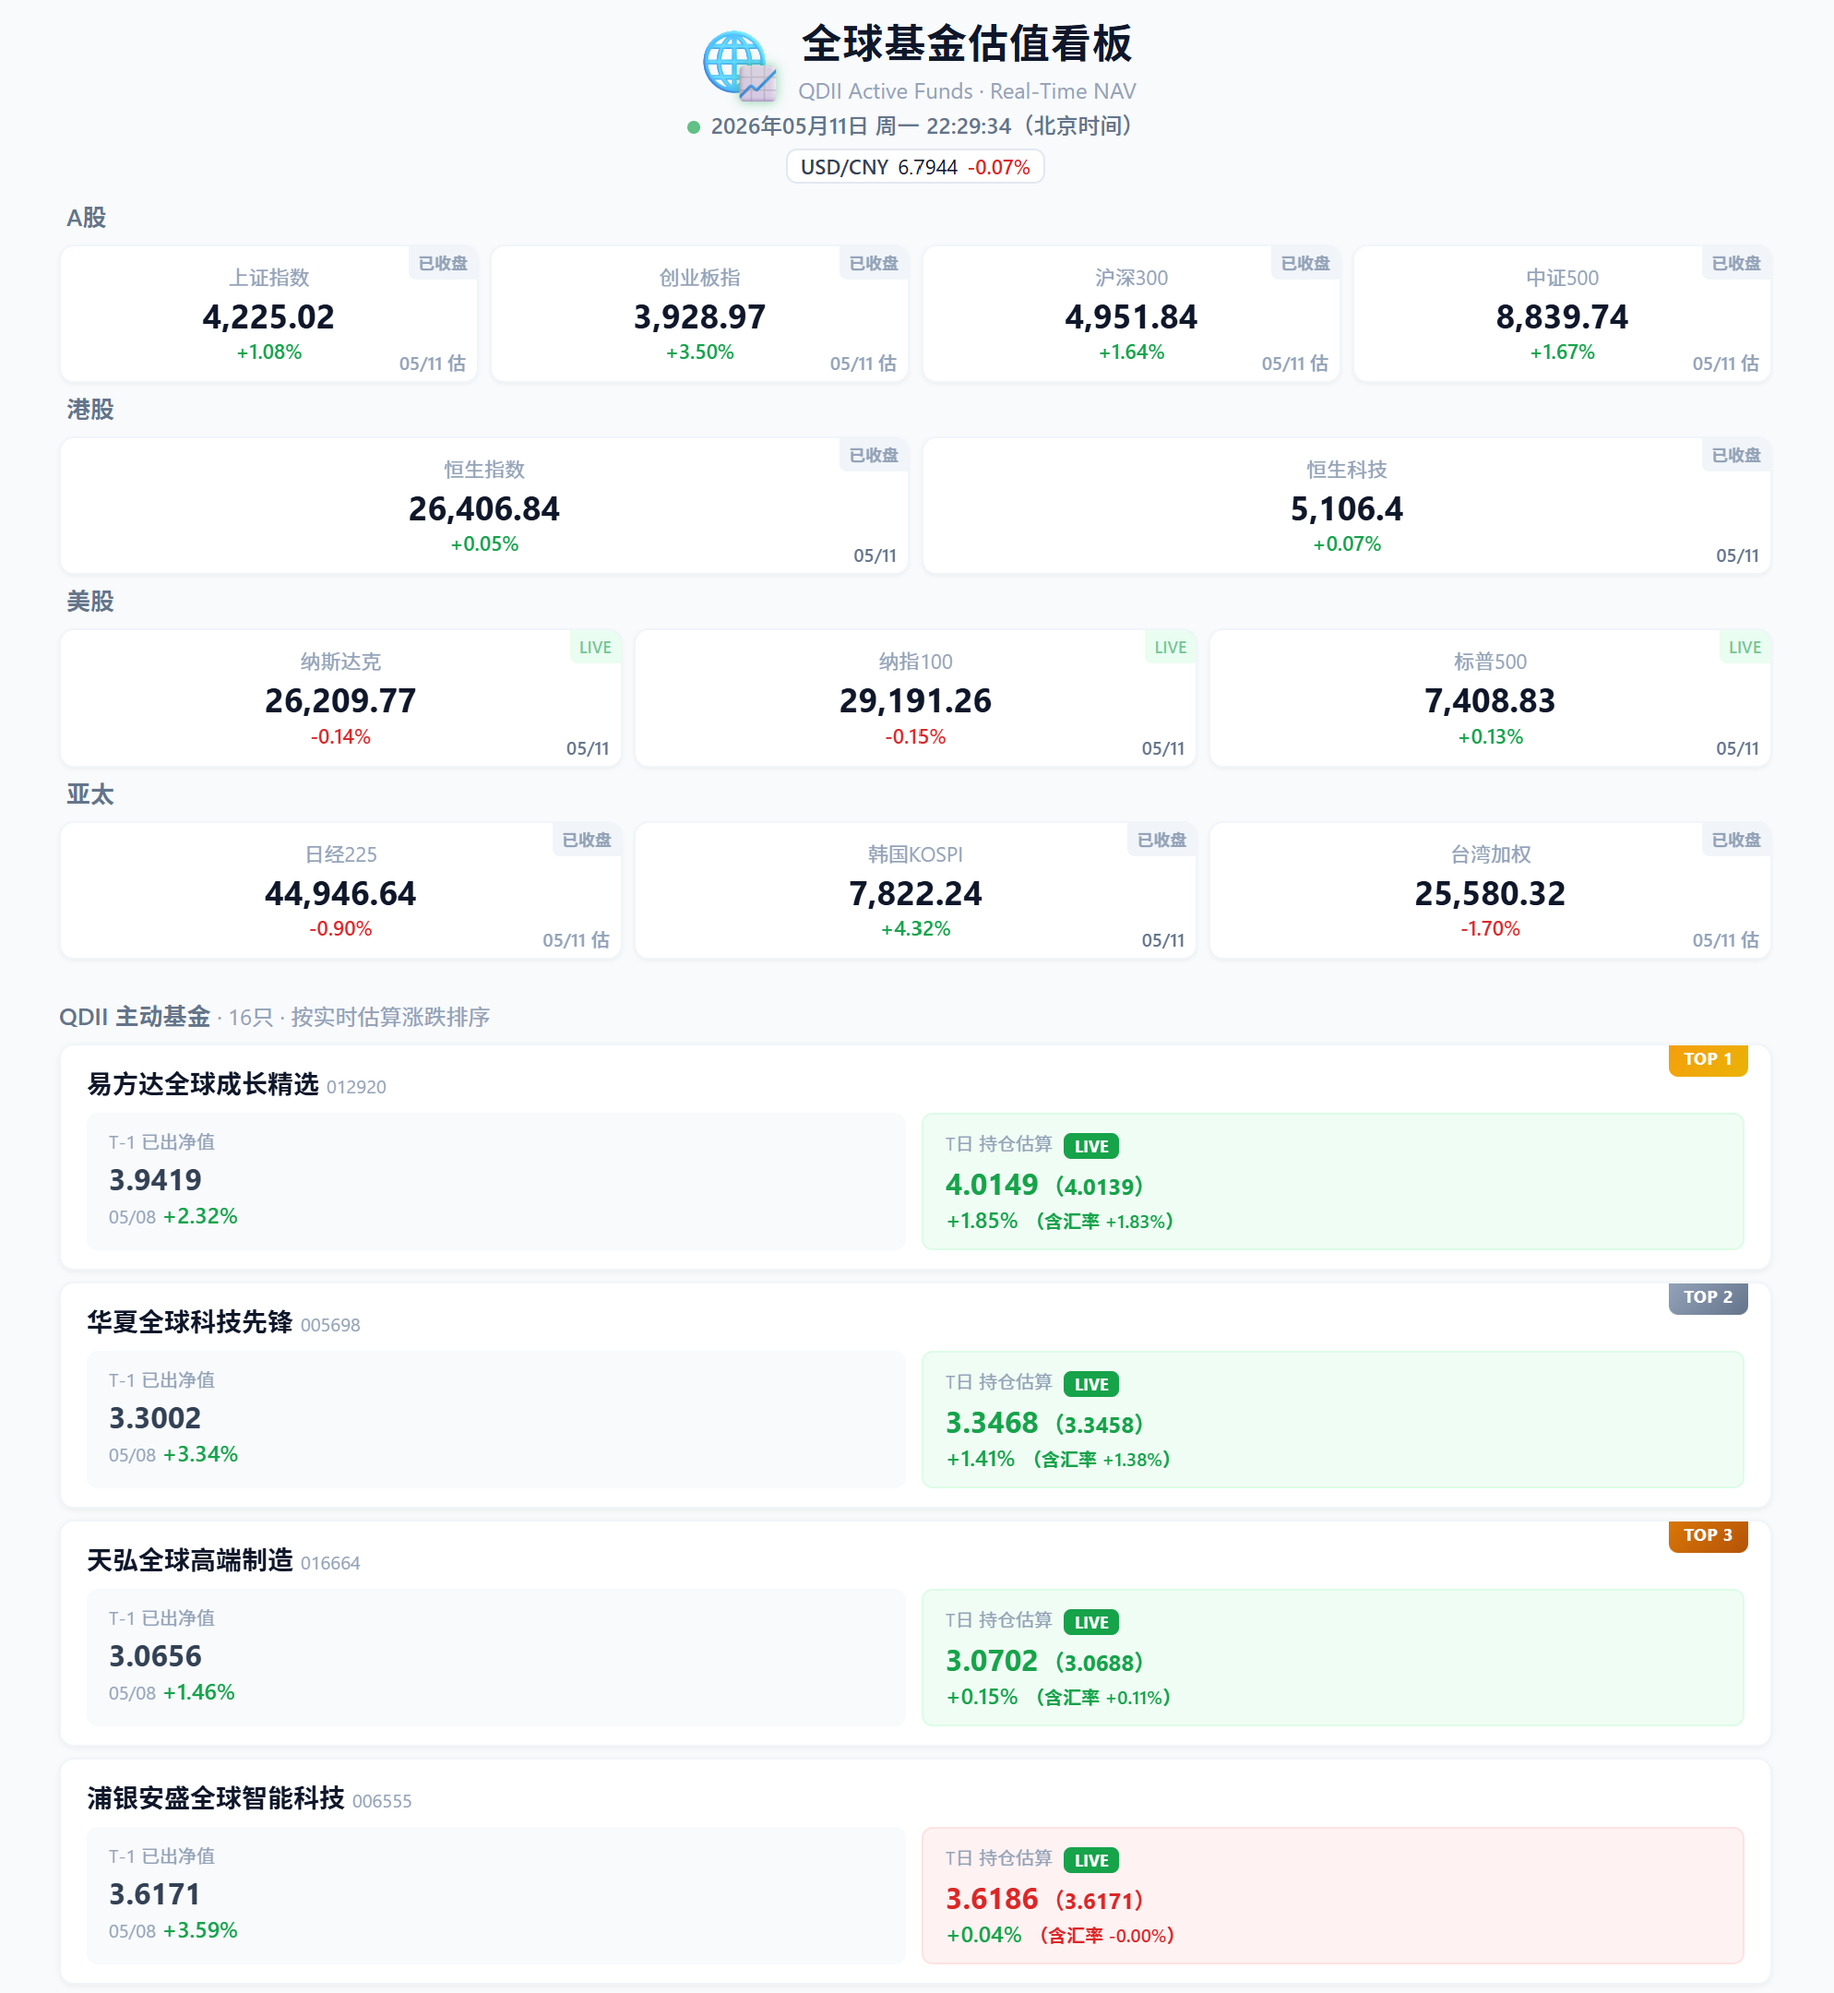
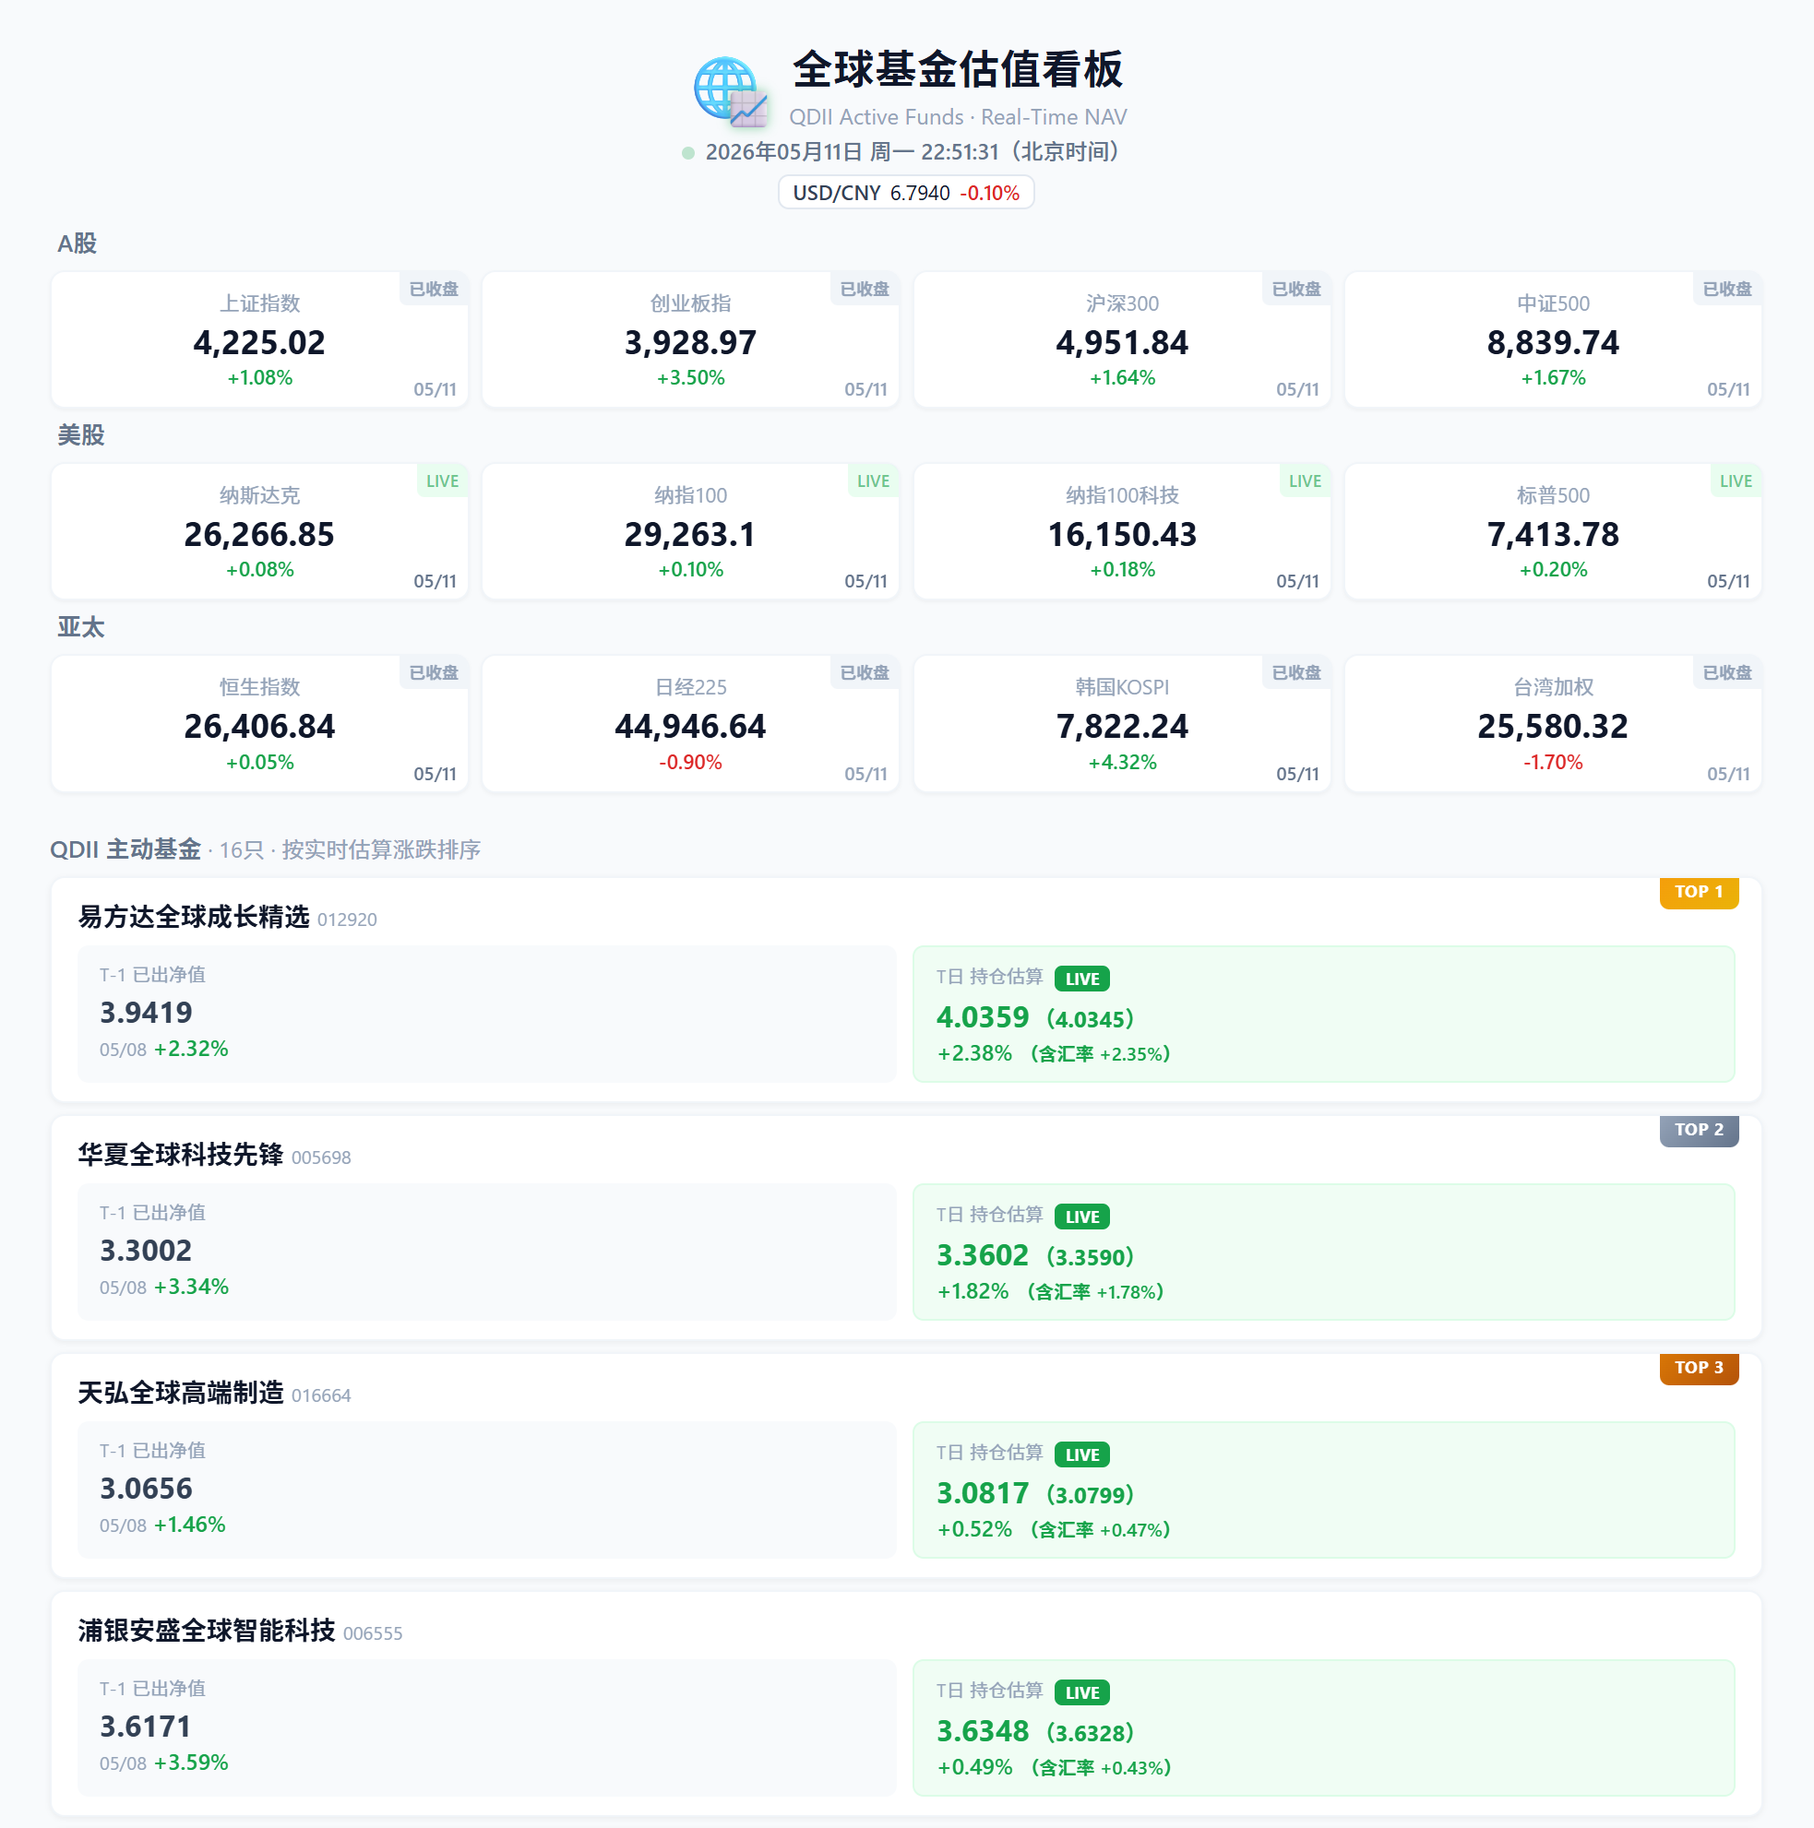
feat: refine index set and quote date display

diff --git a/src/components/IndexCards.tsx b/src/components/IndexCards.tsx
@@ -46,7 +46,7 @@ function Card({ idx, data, loading }: { idx: IndexConfig; data?: QuoteData; load
         {up ? '+' : ''}{data.changePercent.toFixed(2)}%
       </div>
       <span className={`${styles.quoteDate} ${data.dateReliable ? '' : styles.quoteDateEstimated}`}>
-        {formatQuoteDate(data.time)}{data.dateReliable ? '' : ' 估'}
+        {formatQuoteDate(data.time)}
       </span>
     </div>
   );
@@ -55,9 +55,8 @@ function Card({ idx, data, loading }: { idx: IndexConfig; data?: QuoteData; load
 export default function IndexCards({ quotes, loading }: Props) {
   const groups = [
     { title: 'A股', symbols: ['s_sh000001', 's_sz399006', 's_sh000300', 's_sh000905'], cols: 'grid4' },
-    { title: '港股', symbols: ['hkHSI', 'hkHSTECH'], cols: 'grid2' },
-    { title: '美股', symbols: ['gb_ixic', 'gb_ndx', 'gb_inx'], cols: 'grid3' },
-    { title: '亚太', symbols: ['int_nikkei', 'b_KOSPI', 'b_TWSE'], cols: 'grid3' },
+    { title: '美股', symbols: ['gb_ixic', 'gb_ndx', 'gb_ndxt', 'gb_inx'], cols: 'grid4' },
+    { title: '亚太', symbols: ['hkHSI', 'int_nikkei', 'b_KOSPI', 'b_TWSE'], cols: 'grid4' },
   ];
 
   return (

diff --git a/src/constants.ts b/src/constants.ts
@@ -14,14 +14,13 @@ export const INDICES: IndexConfig[] = [
   { symbol: 'SZ399006', name: '创业板指', sinaSymbol: 's_sz399006' },
   { symbol: 'SH000300', name: '沪深300', sinaSymbol: 's_sh000300' },
   { symbol: 'SH000905', name: '中证500', sinaSymbol: 's_sh000905' },
-  // 港股
-  { symbol: 'HSI', name: '恒生指数', sinaSymbol: 'hkHSI' },
-  { symbol: 'HSTECH', name: '恒生科技', sinaSymbol: 'hkHSTECH' },
   // 美股
   { symbol: 'IXIC', name: '纳斯达克', sinaSymbol: 'gb_ixic' },
   { symbol: 'NDX', name: '纳指100', sinaSymbol: 'gb_ndx' },
+  { symbol: 'NDXT', name: '纳指100科技', sinaSymbol: 'gb_ndxt' },
   { symbol: 'INX', name: '标普500', sinaSymbol: 'gb_inx' },
   // 亚太
+  { symbol: 'HSI', name: '恒生指数', sinaSymbol: 'hkHSI' },
   { symbol: 'N225', name: '日经225', sinaSymbol: 'int_nikkei' },
   { symbol: 'KOSPI', name: '韩国KOSPI', sinaSymbol: 'b_KOSPI' },
   { symbol: 'TWSE', name: '台湾加权', sinaSymbol: 'b_TWSE' },

diff --git a/src/components/HoldingsTable.tsx b/src/components/HoldingsTable.tsx
@@ -64,7 +64,7 @@ export default function HoldingsTable({
                 <td className={styles.right}>{(h.weight * 100).toFixed(1)}%</td>
                 <td className={styles.right}>{h.currency}</td>
                 <td className={`${styles.right} ${q?.dateReliable === false ? styles.estimatedDate : ''}`}>
-                  {q ? `${formatQuoteDate(q.time)}${q.dateReliable ? '' : ' 估'}` : '-'}
+                  {q ? formatQuoteDate(q.time) : '-'}
                 </td>
                 <td className={styles.right}>{q ? q.price : '-'}</td>
                 <td className={`${styles.right} ${up ? styles.up : styles.down}`}>

diff --git a/README.md b/README.md
@@ -4,11 +4,11 @@
 
 ## 特性
 
-- **12 个全球指数**：A 股（上证、创业板、沪深300、中证500）、港股（恒生指数、恒生科技）、美股（纳斯达克、纳指100、标普500）、亚太（日经225、韩国KOSPI、台湾加权）
+- **12 个全球指数**：A 股（上证、创业板、沪深300、中证500）、美股（纳斯达克、纳指100、纳指100科技、标普500）、亚太（恒生指数、日经225、韩国KOSPI、台湾加权）
 - **16 只 QDII 主动基金**：覆盖纳斯达克精选、全球科技、全球成长、新兴市场等品类
 - **双净值展示**：每只基金同时展示 T-1 官方已出净值（含日间涨跌幅）和 T 日实时估算净值
 - **持仓穿透**：点击基金卡片展开前十大持仓明细，实时现价、涨跌幅、权重贡献度一目了然
-- **市场状态标签**：各市场指数与持仓股实时标注 LIVE / 已收盘 交易状态，LIVE 标签带呼吸脉冲动画
+- **市场状态标签**：各市场指数与持仓股实时标注 LIVE / 延迟 / 已收盘 交易状态，LIVE 标签带呼吸脉冲动画
 - **实时排序**：按估算涨跌幅排序，涨幅 TOP 3 带有金/银/铜专属标签
 - **多市场行情**：覆盖 A 股、港股、美股、日韩台等市场的指数与个股实时行情
 
@@ -54,7 +54,7 @@ fund_valuation/
     │   └── useQuotes.ts           # 行情 + 净值 + 估算 hook
     ├── components/
     │   ├── Header.tsx             # 标题栏（实时时钟）
-    │   ├── IndexCards.tsx         # 12个指数卡片面板
+    │   ├── IndexCards.tsx         # 12 个指数卡片面板
     │   ├── FundCard.tsx           # 基金卡片（双净值 + 展开）
     │   └── HoldingsTable.tsx      # 持仓明细表
     ├── marketHours.ts             # 各市场交易时段（北京时间）
@@ -104,7 +104,7 @@ npm run preview   # 预览生产构建
 ## 数据说明
 
 - **实时行情**：来自新浪财经，A 股为交易时段实时，美股为北京时间晚间实时。港股和亚太指数非交易时段显示前收盘价
-- **市场状态**：各市场根据北京时间预设交易时段判定 LIVE / 已收盘，A 股 9:30-15:00，港股 9:30-16:00，美股 21:30-次日 4:00，日韩台各有对应时段
+- **市场状态**：各市场根据交易所本地时区、周末和 2026 年主要休市日判定 LIVE / 延迟 / 已收盘
 - **T-1 官方净值**：来自天天基金/东方财富，为最近一个已公布的基金净值（通常为前一个美股交易日）
 - **T-1 净值涨跌幅**：来自东方财富历史净值数据，为官方净值相较前一天的日间涨跌
 - **T 日实时估算**：基于基金前十大持仓的实时行情加权计算，仅供参考，不代表基金实际净值。实际净值以基金公司披露为准

diff --git a/AGENTS.md b/AGENTS.md
@@ -11,7 +11,7 @@ This is a Vite 5 + React 18 + TypeScript app for estimating QDII fund net values
 - `src/constants.ts` stores index and fund holding configuration.
 - `src/marketHours.ts` contains market session logic in Beijing time.
 - `vite-sina-proxy.ts` defines the dev proxy for `/api/sina`, `/api/fundnav`, and `/api/fundhistory`.
-- `demo/` stores screenshots used by the README.
+- `demo/` stores screenshots used by the README; update them when visible dashboard output changes.
 
 ## Build, Test, and Development Commands
 
